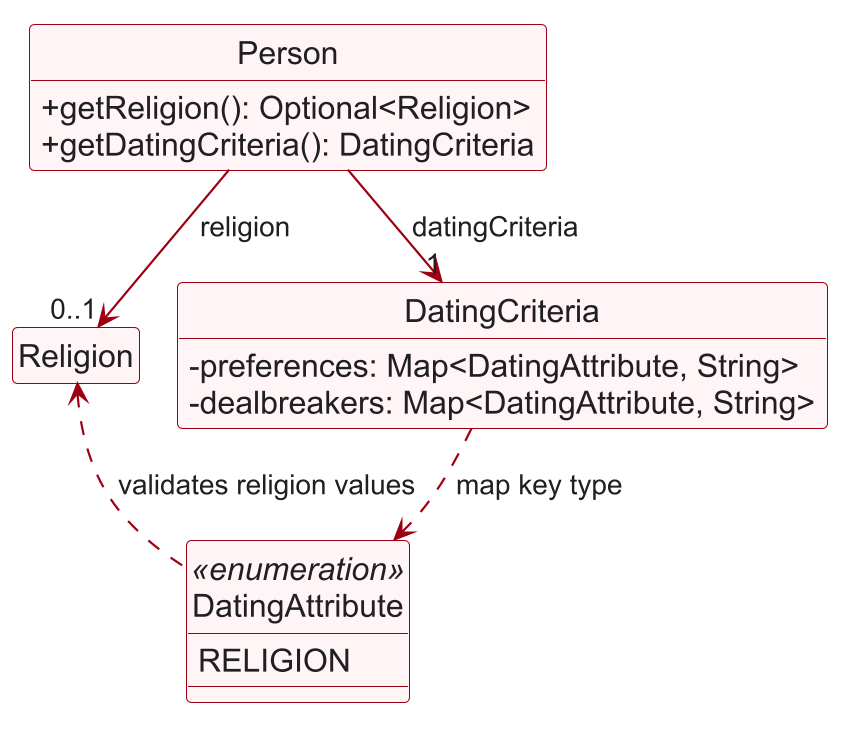
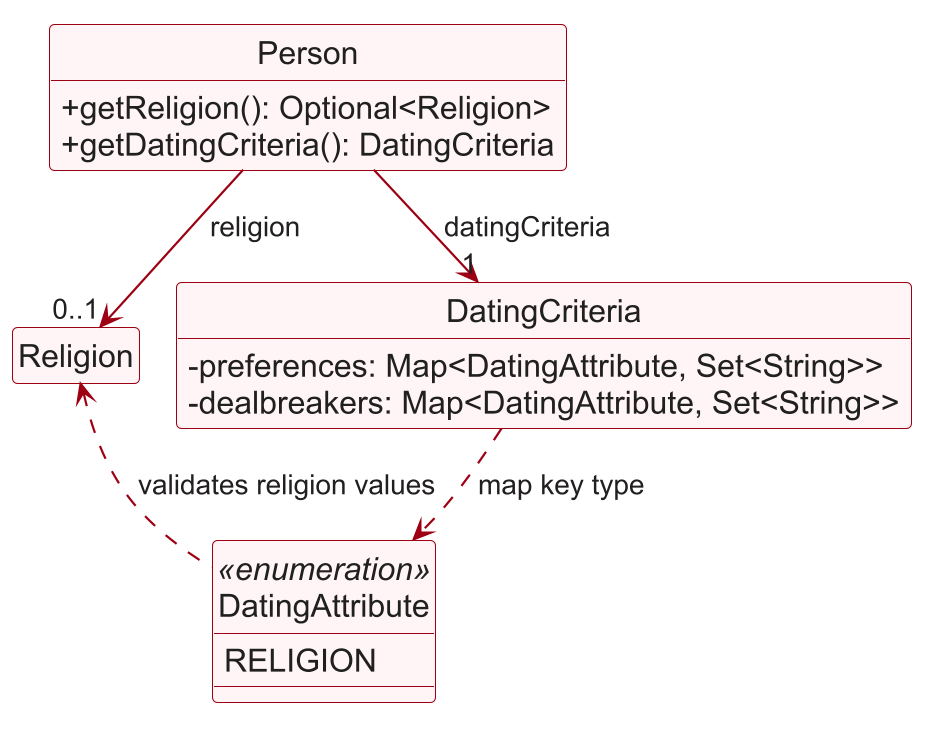
Illustrate client criteria and matching workflows
The guides lacked successful-command screenshots and implementation diagrams for recording and evaluating partner criteria. Add real application captures with fictional clients and reproducible commands, plus criteria and pairwise-match diagrams; reuse and correct the candidate-search sequence.

Keep diagrams consistent with set-valued criteria and derived relationship goals, and remove the ignored PlantUML padding setting that added a warning banner. Align UG error guidance with #200 while leaving unrelated feature documentation cleanups to their owners. This completes the documentation scope of #199 without functional-code changes.

diff --git a/docs/UserGuide.md b/docs/UserGuide.md
@@ -64,6 +64,12 @@ CupidMaxxing is a **desktop application for managing contacts, optimized for use
 * If you are using a PDF version of this document, be careful when copying and pasting commands that span multiple lines as space characters surrounding line-breaks may be omitted when copied over to the application.
 </div>
 
+Malformed command structure is reported as `Invalid COMMAND syntax. Type help for usage.`,
+followed by that command's usage (for example, `Invalid add syntax. Type help for usage.`).
+An unknown command reports `Unknown command. Type help for usage.`; whitespace-only input reports
+`Enter a command. Type help for usage.`. Pressing Enter in an empty command box is ignored. Invalid field values, duplicate fields and state-dependent
+errors retain their more specific explanations instead of being replaced by a syntax error.
+
 ### Viewing help: `help`
 
 Shows a message explaining how to access the help page.
@@ -134,10 +140,24 @@ Examples:
 * `add n/Priya Nair p/90001111 e/priya@example.com a/8 Tampines St age/28 {rg/long}` Records Priya as open to a long-term relationship.
 * `add n/"Ravi s/o Kumar" p/90002222 e/ravi@example.com a/Bedok age/31` Records a name containing `s/o`; without the quotes, `s/o` would start a smoking status.
 
+<a id="successful-add-example"></a>
+**Successful-command example:** In a separate demonstration dataset, the following command records
+Alice's own characteristics, partner preferences and smoking dealbreaker:
+
+```text
+add n/Alice Tan p/90000001 e/alice@example.com a/10 Orchard Road age/30 g/w s/no r/Jainism {age/28-35 g/m r/Jainism rg/long} <s/yes>
+```
+
+[![Successful add showing Alice's client card and partner criteria](images/AddClientSuccess.png)](images/AddClientSuccess.png)
+
+The screenshots use fictional clients. Unused space and the file-path footer are cropped; click an
+image for its full-size view. You do not need to clear your saved clients to follow these examples.
+If these names already exist, use distinct names and adjust the later `match` command accordingly.
 
 | Error handled | Message shown |
 | --- | --- |
-| Missing compulsory fields, malformed prefixes, or invalid profile values | `Invalid command format!` followed by the command usage or the relevant parameter constraint |
+| Missing compulsory fields or invalid command structure | `Invalid add syntax. Type help for usage.` followed by the `add` usage |
+| A supplied profile value is invalid | The relevant field constraint, such as the age or email rules |
 | A single-valued field is supplied more than once | `Multiple values specified for the following single-valued field(s): ...` |
 | A client with the same identity already exists | `This person already exists in the address book.` |
 | `rg/` is used outside a criteria block | `Relationship goals are partner criteria. Use {rg/GOAL} for the goals the client is open to, or <rg/GOAL> for goals the client rules out.` |
@@ -173,9 +193,10 @@ Examples:
 | Error handled | Message shown |
 | --- | --- |
 | No field is supplied | `At least one field to edit must be provided.` |
-| The index is invalid or not displayed | `The person index provided is invalid.` |
+| The index is missing or not a positive integer | `Invalid edit syntax. Type help for usage.` followed by the `edit` usage |
+| A positive index is beyond the displayed list | `The person index provided is invalid.` |
 | The edit would duplicate a client | `This person already exists in the address book.` |
-| A supplied field is malformed or invalid | The relevant parameter constraint or `Invalid command format!` |
+| A supplied field value is invalid | The relevant field constraint; duplicate fields and malformed criteria have their own explanations |
 | `rg/` is used outside a criteria block | `Relationship goals are partner criteria. Use {rg/GOAL} for the goals the client is open to, or <rg/GOAL> for goals the client rules out.` |
 
 ### Adding a preference or dealbreaker
@@ -280,7 +301,8 @@ Use `list` to show every client again; searching does not modify the stored reco
 
 | Error handled | Message shown |
 | --- | --- |
-| More than one search mode, an empty name search, or malformed syntax | `Invalid command format!` followed by the `find` usage |
+| No search mode, more than one search mode, or malformed command structure | `Invalid find syntax. Type help for usage.` followed by the `find` usage |
+| An empty name search, such as `find n/` | `Provide at least one name keyword after n/, e.g. find n/alice bob.` |
 | An unquoted name keyword contains `/` | `Name keywords cannot contain /. To search for a name containing /, put it in quotes, e.g. find n/"Ravi s/o".` |
 | A goal list is empty, repeated or not a keyword | `Use distinct relationship goals separated by commas, e.g. rg/long,long-open.` or the list of accepted keywords |
 | An attribute value or gender list is invalid | The relevant attribute constraint or `Gender list must contain one or more of m, w, nb without duplicates.` |
@@ -306,7 +328,7 @@ Examples:
 | --- | --- |
 | `INDEX` is not a positive integer, e.g. `find match/0` | `Index must be a positive integer.` |
 | `INDEX` is beyond the displayed list | `The person index provided is invalid.` |
-| `match/` is combined with another search prefix | `Invalid command format!` followed by the `find` usage |
+| `match/` is combined with another search prefix | `Invalid find syntax. Type help for usage.` followed by the `find` usage |
 
 ### Matching two clients: `match`
 
@@ -359,13 +381,27 @@ Examples:
 
 | Error handled | Message shown |
 | --- | --- |
-| Not exactly two clients, a name before an index, or an index that is not a positive integer | `Invalid command format!` followed by the `match` usage |
+| Not exactly two clients, a name before an index, or an index that is not a positive integer | `Invalid match syntax. Type help for usage.` followed by the `match` usage |
 | An index is beyond the displayed list | `The person index provided is invalid.` |
 | Both refer to the same client | `Choose two different clients.` followed by the `match` usage |
 | No client has that name | `No client is named NAME.` |
 | Several clients have that name | `Several clients are named NAME. Use their list indexes instead.` |
 
 Example: `list` followed by `match 1 3` assesses the first and third clients without changing their records.
+
+**Successful-command example:** After adding [Alice above](#successful-add-example), add Bob and
+compare them by name:
+
+```text
+add n/Bob Lim p/90000002 e/bob@example.com a/20 Orchard Road age/32 g/m s/no r/Jainism {age/25-35 g/w r/Jainism rg/long} <s/yes>
+match n/Alice Tan n/Bob Lim
+```
+
+[![Successful pairwise match showing both clients' criteria and assessments](images/MatchClientsSuccess.png)](images/MatchClientsSuccess.png)
+
+Here, neither client's recorded dealbreakers are violated, and all displayed preferences are met.
+The two tables show the checks in both directions; compatibility is based on the recorded data,
+not a guarantee about a real-world relationship.
 
 ### Organising clients into groups: `grp` and `show`
 
@@ -422,6 +458,15 @@ the members in address-book order, rather than the preference ranking used by `f
 Membership is a snapshot: adding clients or changing dating attributes and criteria does not automatically
 recompute the shortlist. Edits still update the member's details, and deleting a member removes them from
 the group. Use `add`/`remove` to adjust membership or create another shortlist with a new name.
+
+| Error handled | Message shown |
+| --- | --- |
+| Missing group/operation/index, an unknown operation, or extra arguments after `matches INDEX` | `Invalid grp syntax. Type help for usage.` followed by the `grp` usage |
+| `show` has no name or more than one argument | `Invalid show syntax. Type help for usage.` followed by the `show` usage |
+| An index is not a positive integer | `Index must be a positive integer.` |
+| A displayed index is repeated | `Specify each displayed index only once.` |
+| A positive index is beyond the displayed list | `The person index provided is invalid.` |
+| The group name is invalid | The group-name constraint; a valid but unknown group reports `Unknown group: NAME` |
 
 ### Parameter list
 
@@ -624,6 +669,11 @@ Examples:
 
 * `list` followed by `delete 2` deletes the 2nd client in CupidMaxxing.
 * `find g/nb` followed by `delete 1` deletes the 1st client in the search results.
+
+| Error handled | Message shown |
+| --- | --- |
+| The index is missing, not a positive integer, or followed by extra text | `Invalid delete syntax. Type help for usage.` followed by the `delete` usage |
+| A positive index is beyond the displayed list | `The person index provided is invalid.` |
 
 ### Clearing all entries: `clear`
 

diff --git a/docs/DeveloperGuide.md b/docs/DeveloperGuide.md
@@ -376,13 +376,18 @@ These checks also apply when an edit updates only one bucket and retains the oth
 spaces around the hyphen, such as `age/25 - 30`. A failed add or edit leaves stored records unchanged.
 
 `JsonAdaptedPerson` persists criteria as the `preferences` and `dealbreakers` maps. Each map uses the
-stable `DatingAttribute` storage key and a canonical value; for example,
-`"preferences": {"religion": "Buddhism"}` and `"dealbreakers": {"religion": "Islam"}`.
+stable `DatingAttribute` storage key and a list of canonical values; for example,
+`"preferences": {"religion": ["Buddhism"]}` and `"dealbreakers": {"religion": ["Islam"]}`.
+Legacy scalar strings remain accepted on input, but new saves use lists even for one value.
 `DatingCriteria.fromStorage` restores these maps; older valid records without them load with empty
 criteria. Invalid criteria, including null map values and normalized preference/dealbreaker conflicts,
 are reported through the existing `IllegalValueException` invalid-data path.
 
-> **Class diagram:** To be uploaded here.
+The class diagram below separates the client's own values from set-valued partner criteria. A relationship
+goal is derived from the preference map, not stored as another own-value field. Ordinary associations
+avoid implying that shared enum values belong exclusively to a client. Click the diagram to view it at full size.
+
+[![Client characteristics and set-valued partner criteria](images/DatingCriteriaClassDiagram.png)](images/DatingCriteriaClassDiagram.png)
 
 
 A quoted value, `find n/"PHRASE"`, is searched as one phrase instead. The tokenizer removes the quotes, so the
@@ -475,6 +480,13 @@ Other commands and errors retain their text display. Matching does not change mo
 the list filter, or the storage schema, and does not record a pairing. `LogicManager` still performs its normal
 save after successful commands; the saved client data is unchanged. Invalid commands use the existing error display.
 
+The following sequence focuses on successful command execution after parsing `match 1 n/Bernice Yu`.
+Each reference resolves a client before one assessment compares criteria in both directions. The result
+retains the structured assessment for the UI; the diagram omits parsing, error branches, saving and rendering.
+`ref` represents each reference in turn, not a reference shared by both clients. Click to view at full size.
+
+[![Pairwise matching execution and structured result](images/MatchSequenceDiagram.png)](images/MatchSequenceDiagram.png)
+
 Tests cover parsing and dispatch, comparison rules and missing values, filtered indexes, reloads, and unchanged
 records and saved data. Run `./gradlew test --tests '*Match*'` for the matching tests.
 
@@ -494,7 +506,9 @@ computed once before sorting, and ties keep insertion order because the sort is 
 
 The sequence diagram below shows how `find match/1` is parsed and executed.
 
-![Interactions inside the Logic and Model components for the `find match/1` command](images/FindMatchSequenceDiagram.png)
+[![Interactions inside the Logic and Model components for the `find match/1` command](images/FindMatchSequenceDiagram.png)](images/FindMatchSequenceDiagram.png)
+
+Click the diagram to view the calls and loop guards at full size.
 
 <div markdown="span" class="alert alert-info">:information_source: **Note:** One `MatchAssessment` is created per candidate; the diagram shows a single lifeline for brevity. The source client is skipped using `isSamePerson`, so it never appears in its own results.
 </div>
